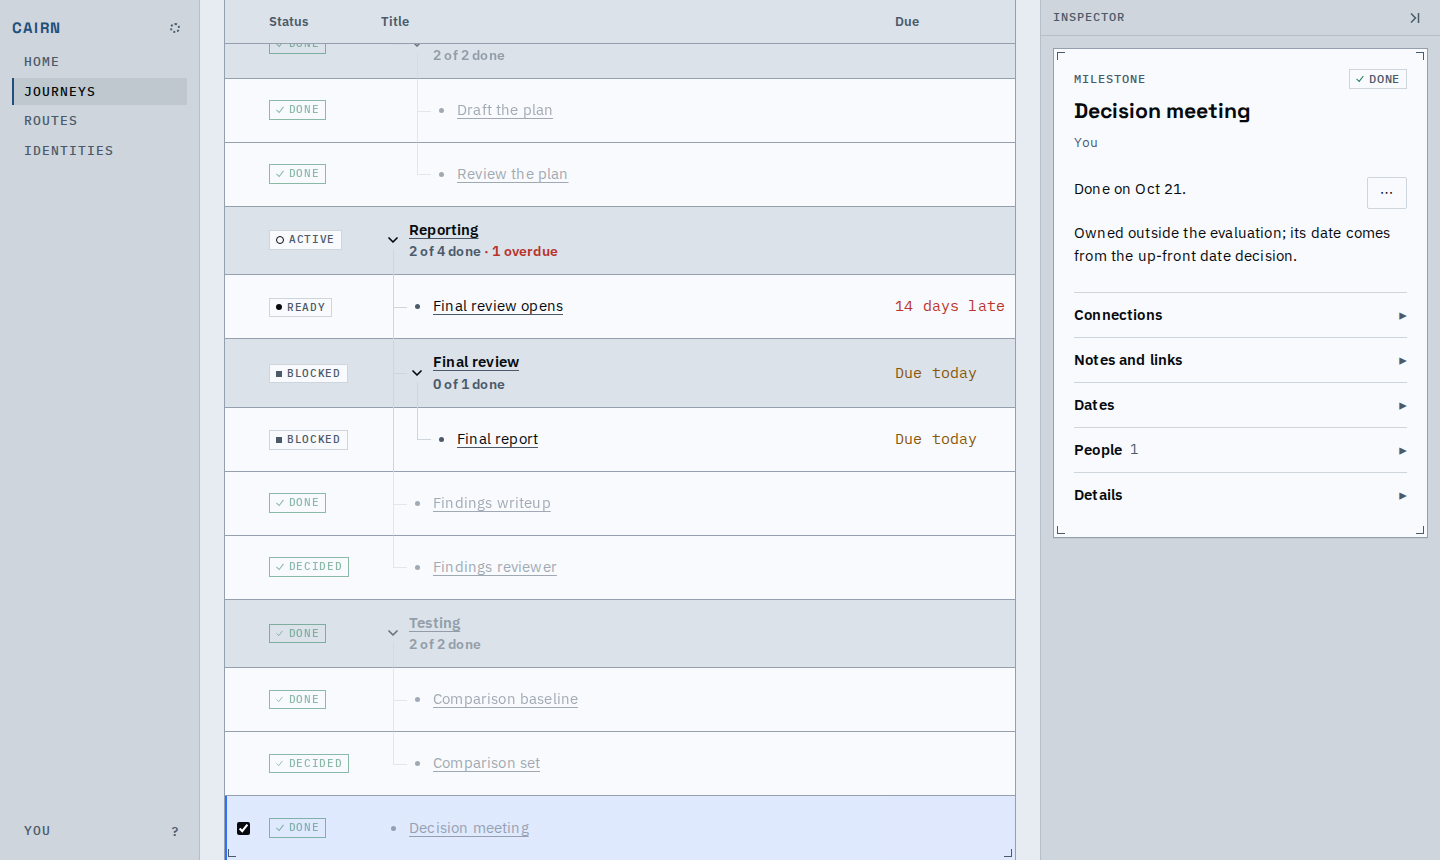
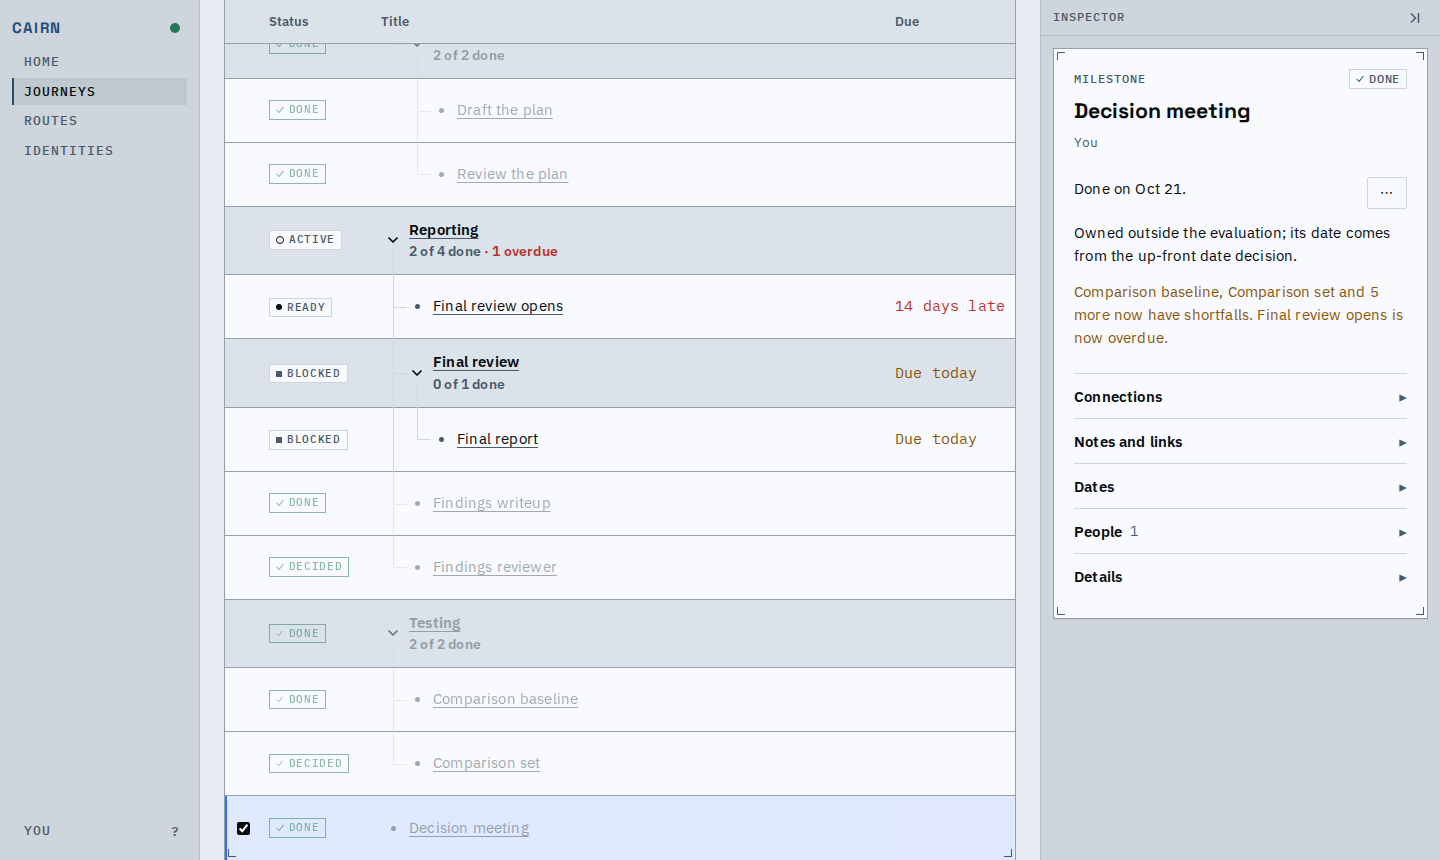
Show the done flow at phone width and in dark, and fix what it showed
A milestone finished from the inspector left its warning beside the
overflow menu, which squeezed the sentence into a column of single
letters on a phone; the warning now sits under the sentence, in the
warning colour at body size. Also:

- the date field under Mark done and the date editor carry a visible
  Done on label, an emptied date says what to choose, the editor's Save
  waits for a different date, and the overflow menu shares the bottom
  edge of the action beside it;
- a phone list row no longer says how late it is twice (its fact and
  its due line), and its due line always sits under the action.

The decision record gains the calls: the panel head count stays as the
design document specifies it, a scheduled milestone has no list-row
action, and the looks raised and left with the passages that settle
them. The proof page gains phone and dark captures.

Verified by walking a scheduled and an ordinary milestone through Mark
done in list rows, the inspector, the Timeline, the summary and the
history at 1440 and 390 pixels in light and dark, and by browser tests
for the squeezed sentence, the repeated lateness, the empty date and
the date editor, each failing without its fix.

Changed region(s): [[0.7188, 0.3326, 1.0, 0.7256]]

diff --git a/web/app/src/detail/Actions.tsx b/web/app/src/detail/Actions.tsx
@@ -108,15 +108,15 @@ function guardsOf(detail: NodeDetail): { guards: Guard[]; words: string } {
 }
 
 /** F2: a done milestone's actual date, edited. */
-function EditDate({ value, sending, disabled, onChange, onSave, onClose }: { value: string; sending: Sending; disabled: boolean; onChange: (date: string) => void; onSave: (date: string) => void; onClose: () => void }) {
+function EditDate({ value, unchanged, sending, disabled, onChange, onSave, onClose }: { value: string; unchanged: boolean; sending: Sending; disabled: boolean; onChange: (date: string) => void; onSave: (date: string) => void; onClose: () => void }) {
   return (
     <span className="stack" data-testid="edit-date-form">
       <span className="row row-end">
         <label className="stack">
-          <span className="muted">Done on</span>
+          <span className="muted">{value === "" ? "Choose the date it was done." : "Done on"}</span>
           <Field type="date" aria-label="Done on" value={value} onChange={(event) => { onChange(event.target.value); }} />
         </label>
-        <Button primary disabled={disabled || value === ""} onClick={() => { onSave(value); }}>
+        <Button primary disabled={disabled || value === "" || unchanged} onClick={() => { onSave(value); }}>
           Save
         </Button>
         <Dismiss sending={sending} onClose={onClose} />
@@ -369,7 +369,7 @@ function OpenedForm({ opened, footer, ...props }: OpenProps & { opened: Opened; 
     case "evidence":
       return <EvidenceForm {...shared} needs={missingEvidence(view, node)} value={evidenceDraft(opened.value)} onChange={(next) => { form.change("evidence", next); }} onSend={(evidence) => { submit(opened, doneMutations(node.key, evidence)); }} />;
     case "edit-date":
-      return <EditDate {...shared} value={opened.value} onChange={(next) => { form.change("edit-date", next); }} onSave={(date) => { submit(opened, [{ op: "set_recorded_date", node: node.key, end: "finish", date }]); }} />;
+      return <EditDate {...shared} value={opened.value} unchanged={opened.value === detail.record.finished_on} onChange={(next) => { form.change("edit-date", next); }} onSave={(date) => { submit(opened, [{ op: "set_recorded_date", node: node.key, end: "finish", date }]); }} />;
     case "assign":
       return (
         <span className="row" data-testid="assign">
@@ -456,6 +456,20 @@ function useMenu(menus: Omit<Menus, "insertHere">): { groups: MenuItem[][]; runn
   return { groups, runners, focusAnswer: focusAsked ? () => { setFocusAsked(false); } : undefined };
 }
 
+/** The answer form's bypass reason, while it is open and nothing is kept. */
+function anywayOf(form: ReturnType<typeof useActionsForm>, kept: unknown): Anyway | undefined {
+  const { open } = form;
+  return open?.case === "anyway" && kept === undefined
+    ? {
+        reason: open.value,
+        change: (next) => { form.change("anyway", next); },
+        cancel: form.close,
+        sent: (id) => { form.sent(id, open.version); },
+        resent: form.resent,
+      }
+    : undefined;
+}
+
 /** What the form's buttons open here: the done form and the break-down panel (the answer form is drawn in place of Decide). */
 function opensIn(form: ActionsForm): (what: Opens) => void {
   return (what) => {
@@ -472,6 +486,7 @@ export function Actions({ view, detail, onRename }: { view: Ready; detail: NodeD
   return <NodeActions key={`${view.journey.header.id}:${detail.node.key}`} view={view} detail={detail} onRename={onRename} />;
 }
 
+// A write's receipt or rejection is as wide as it needs: beside the sentence (the menu-only case) it would squeeze the sentence, so it sits under it.
 function NodeActions({ view, detail, onRename }: { view: Ready; detail: NodeDetail; onRename: () => void }) {
   const write = useNodeWrite(view, `actions:${detail.node.key}`, detail.node.key);
   const { node, record } = detail;
@@ -495,27 +510,19 @@ function NodeActions({ view, detail, onRename }: { view: Ready; detail: NodeDeta
       form.sent(id, from.version);
     }
   };
-  const anyway: Anyway | undefined =
-    open?.case === "anyway" && kept === undefined
-      ? {
-          reason: open.value,
-          change: (next) => { form.change("anyway", next); },
-          cancel: form.close,
-          sent: (id) => { form.sent(id, open.version); },
-          resent: form.resent,
-        }
-      : undefined;
+  const anyway = anywayOf(form, kept);
   const { groups, runners, focusAnswer } = useMenu({ view, detail, write, form, onRename, onCopied: () => { setCopied(true); } });
   const menu = <Overflow groups={groups} runners={runners} />;
   // A decision awaiting its answer has the answer form in the place of Decide.
   const acts = [...(offers.primary === undefined || offers.primary === "decide" ? [] : [offers.primary]), ...offers.secondary];
   const opens = opensIn(form);
   const moving = movesFrom(node.kind, record.state).includes("start") ? "Starting" : "Finishing";
-  const rejected = <Rejected view={view} write={write} onResent={form.resent} />;
   const inDialog = open?.case === "snooze";
+  const rejected = <Rejected view={view} write={write} onResent={form.resent} />;
+  const settled = kept === undefined && !inDialog ? rejected : null;
   // With nothing to do but the overflow menu, it sits beside the sentence above it instead of on a row of its own.
   const menuOnly = showsRow && acts.length === 0 && groups.length > 0 && !showsAnswer && !copied;
-  return (
+  const body = (
     <div className={menuOnly ? "stack actions-menu-only" : "stack"} data-testid="actions">
       {showsAnswer ? <AnswerEditor view={view} detail={detail} menu={menu} anyway={anyway} focus={focusAnswer} /> : null}
       {showsAnswer && offers.secondary.includes("unsnooze") ? (
@@ -538,7 +545,15 @@ function NodeActions({ view, detail, onRename }: { view: Ready; detail: NodeDeta
       {inPlace ? <OpenedForm view={view} detail={detail} write={write} form={form} opened={open} sending={sending} footer={inDialog ? rejected : null} submit={submit} /> : null}
       {kept === undefined ? null : <Kept opened={kept} view={view} onClose={form.close} />}
       {copied ? <span className="muted small">Link copied.</span> : null}
-      {kept === undefined && !inDialog ? rejected : null}
+      {menuOnly ? null : settled}
     </div>
+  );
+  return menuOnly ? (
+    <>
+      {body}
+      {settled}
+    </>
+  ) : (
+    body
   );
 }

diff --git a/web/app/e2e/detail.spec.ts b/web/app/e2e/detail.spec.ts
@@ -7,7 +7,7 @@
 import { expect, test } from "./test.ts";
 
 import { openNode, pin, section } from "./detail.ts";
-import { fresh, goWithin, menuItem, nodeCard, nodePanel, syncChip } from "./shell.ts";
+import { fresh, goWithin, menuItem, nodeCard, nodePanel, openAt, openSheet, syncChip } from "./shell.ts";
 
 test("a later pin is rejected with its chain, kept across a reload and counted away from it, and resolved with a listed move (F5)", async ({ page }) => {
   let panel = await openNode(page, "browser", "j_vendor_eval", "n_final_report");
@@ -116,4 +116,50 @@ test("C8, J4: Details is last and folded, and its history says who did what: oth
   await panel.getByRole("button", { name: "Start" }).click();
   await expect(history).toHaveCount(before + 1);
   await expect(history.last().getByTestId("history-sentence")).toHaveText(/^You /);
+});
+
+test("a milestone done on a phone leaves its sentence a readable line, with what the write caused under it", async ({ page }) => {
+  await page.setViewportSize({ width: 390, height: 844 });
+  await openAt(page, "browser", "j_vendor_eval", "list", { node: "n_decision_meeting" });
+  await openSheet(page);
+  const panel = page.getByTestId("node-detail");
+  await panel.getByRole("button", { name: "Mark done", exact: true }).click();
+  await expect(panel.getByTestId("receipt")).toBeVisible();
+  const lead = (await panel.locator(".detail-lead").boundingBox())?.width ?? 0;
+  const sentence = (await panel.locator(".detail-lead > :first-child").boundingBox())?.width ?? 0;
+  expect(sentence).toBeGreaterThan(lead / 2);
+});
+
+test("a phone's late row says how late once, not as its fact and again as its due line", async ({ page }) => {
+  await page.setViewportSize({ width: 390, height: 844 });
+  await openAt(page, "browser", "j_vendor_eval", "list", { fixedToday: "2026-11-05" });
+  await page.getByRole("button", { name: /Controls/ }).click();
+  await page.getByRole("button", { name: /Frontier/ }).first().click();
+  await page.keyboard.press("Escape");
+  const late = page.locator(".list-node").filter({ has: page.getByTestId("fact").filter({ hasText: /late/ }) });
+  await expect(late.first()).toBeVisible();
+  await expect(late.first().locator(".list-due-phone")).toHaveCount(0);
+});
+
+test("a milestone's Done on date left empty says what to choose, and Mark done waits for it", async ({ page }) => {
+  await openAt(page, "browser", "j_vendor_eval", "list", { node: "n_decision_meeting" });
+  const panel = page.getByTestId("node-detail");
+  await panel.getByLabel("Done on").fill("");
+  await expect(panel.getByText("Choose the date it was done.")).toBeVisible();
+  await expect(panel.getByRole("button", { name: "Mark done", exact: true })).toBeDisabled();
+  await panel.getByLabel("Done on").fill("2026-10-20");
+  await expect(panel.getByText("Choose the date it was done.")).toHaveCount(0);
+  await expect(panel.getByRole("button", { name: "Mark done", exact: true })).toBeEnabled();
+});
+
+test("editing a done milestone's date offers Save only for a different date", async ({ page }) => {
+  await openAt(page, "browser", "j_vendor_eval", "list", { node: "n_decision_meeting" });
+  const panel = page.getByTestId("node-detail");
+  await panel.getByLabel("Done on").fill("2026-10-20");
+  await panel.getByRole("button", { name: "Mark done", exact: true }).click();
+  await menuItem(panel, "edit-date");
+  const form = panel.getByTestId("edit-date-form");
+  await expect(form.getByRole("button", { name: "Save" })).toBeDisabled();
+  await form.getByLabel("Done on").fill("2026-10-19");
+  await expect(form.getByRole("button", { name: "Save" })).toBeEnabled();
 });

diff --git a/web/app/src/acting/ListCells.tsx b/web/app/src/acting/ListCells.tsx
@@ -64,15 +64,18 @@ function Return({ view, line }: { view: Ready; line: Line }) {
 }
 
 /** A phone drops the Due column, so the row says its due words under the title (a snoozed row says where the snooze ends instead). */
-function PhoneDue({ view, line }: { view: Ready; line: Line }) {
+function PhoneDue({ view, line, fact }: { view: Ready; line: Line; fact: string | undefined }) {
   const derived = view.derived.nodes[line.key];
   const node = nodeOf(view, line.key);
   const state = line.row?.display_state ?? derived?.display_state;
   const due = derived?.dates.due?.date;
   const open = state !== undefined && state !== "done" && state !== "skipped" && state !== "not_relevant" && state !== "snoozed";
-  return !open || due == null || node === undefined ? null : (
-    <span className={`list-due-phone small ${inkClass(dateInk(due, view.derived.today)) ?? "muted"}`}>{dueWords(due, view.derived.today, node.kind === "decision")}</span>
-  );
+  if (!open || due == null || node === undefined) {
+    return null;
+  }
+  const words = dueWords(due, view.derived.today, node.kind === "decision");
+  // The fact under the title already says it when it is the due words ("14 days late").
+  return words === fact ? null : <span className={`list-due-phone small ${inkClass(dateInk(due, view.derived.today)) ?? "muted"}`}>{words}</span>;
 }
 
 /** How far a container is, and the one thing beneath it that needs attention. */
@@ -126,7 +129,7 @@ function Title({ line, context }: { line: Line; context: CellContext }) {
         <NodeLink view={view} node={line.key} />
         {acting ? <Acting line={line} context={context} /> : tree ? (line.container ? <Progress view={view} line={line} /> : null) : <Under view={view} line={line} />}
         <Return view={view} line={line} />
-        <PhoneDue view={view} line={line} />
+        <PhoneDue view={view} line={line} fact={acting && line.row !== undefined ? factOf(view, line.row, context.sort ?? "rank")?.words : undefined} />
       </div>
     </div>
   );

diff --git a/web/app/src/detail/ActButton.tsx b/web/app/src/detail/ActButton.tsx
@@ -40,7 +40,7 @@ function MilestoneDone({ view, write, node, disabled }: { view: Ready; write: No
   return (
     <span className="row row-end">
       <label className="stack">
-        <span className="muted">Done on</span>
+        <span className="muted">{date === "" ? "Choose the date it was done." : "Done on"}</span>
         <Field type="date" aria-label="Done on" value={date} onChange={(event) => { setDate(event.target.value); }} />
       </label>
       <Button

diff --git a/web/app/src/ui/app.css b/web/app/src/ui/app.css
@@ -660,12 +660,10 @@ body {
 .toasts > .toast[data-tone="problem"] {
   border-color: var(--color-error);
 }
+/* A receipt is only ever a warning the write caused ("Kickoff is now overdue."). */
 .receipt {
-  color: var(--color-success);
-  font-size: 14px;
-}
-.receipt > .small {
   color: var(--color-warning);
+  font-size: 15px;
 }
 
 .callout {

diff --git a/web/app/src/ui/Receipt.tsx b/web/app/src/ui/Receipt.tsx
@@ -28,7 +28,7 @@ export function Receipt({ receipt }: { receipt: ReceiptState | undefined }) {
     return null;
   }
   return (
-    <span className="receipt small" data-testid="receipt">
+    <span className="receipt" data-testid="receipt">
       {receipt.warning}
     </span>
   );

diff --git a/web/app/src/acting/acting.css b/web/app/src/acting/acting.css
@@ -332,8 +332,10 @@ summary.node-panel-head {
     display: none;
   }
 
+  /* On a line of its own under the action, so a row's title, fact, action and due always stack in that order. */
   .list-due-phone {
     display: block;
+    flex-basis: 100%;
   }
 }
 

diff --git a/web/app/src/detail/detail.css b/web/app/src/detail/detail.css
@@ -109,9 +109,11 @@ textarea.grow {
   grid-column: 1;
 }
 
+/* The overflow menu shares the bottom edge with the action beside a labelled field. */
 .actions-row {
   gap: var(--space-3);
   flex-wrap: wrap;
+  align-items: flex-end;
 }
 
 .popover-panel {

diff --git a/decisions/2026-10-21-milestone-done.md b/decisions/2026-10-21-milestone-done.md
@@ -50,8 +50,31 @@ the old one?
 - A milestone's authored description (for example "its date comes from the up-front date
   decision") is the author's text and is never rewritten, so it stays as written after the
   milestone is done.
-- Panel head counts without a noun (for example the attention list) are a convention shared
-  by every panel on every screen and unrelated to this rename; changing it is its own call.
+- A panel head's count stays as it is. The design document settles it: a panel's heading is
+  the section title with its count in small mono beside it ("Needs attention 7"), and its
+  rule against a bare number is about a number with no word near it ("Unlocks 2", not "2").
+  A count that follows the word naming what is counted is that form. The critique that asked
+  for "7 items" read the rule without the panel-head passage; no panel head changes.
+- A scheduled milestone has no Mark done on its list row: the list offers a row action only
+  to the frontier, and a milestone that marks itself done on a date ahead is not on it. The
+  inspector offers Mark done on it, with the same one label, as the way to finish it early.
+- When a write's only effect on the inspector is its warning (a milestone done, with the
+  later things it left short or overdue), the warning sits under the sentence in the warning
+  colour. It had been squeezing the sentence beside the overflow menu into a column of single
+  letters on a phone, and was drawn in the success colour.
+
+- On a phone, a late row's due line is left out when the fact under its title already says
+  the same words. An empty Done on date says what to choose.
+- Editing a done milestone's date offers Save only for a different date. The warning a
+  write leaves stays one sentence under the sentence, as every receipt does; the nodes it
+  names are on the screens, and the sentence clears when the next write starts.
+- Looks that were raised and left as they are, each by what the design documents say: a
+  row's one reason under its title next to the Due column (the frontier's rows are specified
+  with both); a phone list's status chip wrapping onto two lines and the timeline's narrow
+  label ending in an ellipsis (the table and the no-spill rules give titles the room, and the
+  full words are in the inspector); the summary's actions under a row on a touch screen
+  (specified there); the filter, which holds flags and relevance switches only, so a
+  finished state is never hidden by it and has no choice in it.
 
 ## Alternatives
 

diff --git a/briefs/proof/2026-10-21-milestone-done/README.md b/briefs/proof/2026-10-21-milestone-done/README.md
@@ -20,6 +20,20 @@ The Timeline row of a finished milestone says "Done" and its date; the summary's
 
 ![Summary](summary.png)
 
+## Phone and dark
+
+The same button and date field work at phone width and in dark. A milestone that marks itself done on its date offers the one Mark done too, from its inspector (it is not on the list's frontier rows, so a row carries none).
+
+![A scheduled milestone on a phone, dark](scheduled-phone-dark.png)
+
+![A frontier row on a phone, dark: title, reason, Mark done, one line each](list-row-phone-dark.png)
+
+![The same milestone done on a phone, light: what the write left short is under the sentence](done-phone-light.png)
+
+![An emptied Done on date says what to choose](date-cleared-phone-light.png)
+
+![A milestone done on an earlier day than today, on the Timeline in dark](timeline-done-dark.png)
+
 ## Known limits
 
 - Route files exported before this change name the old setting and must be exported again.
